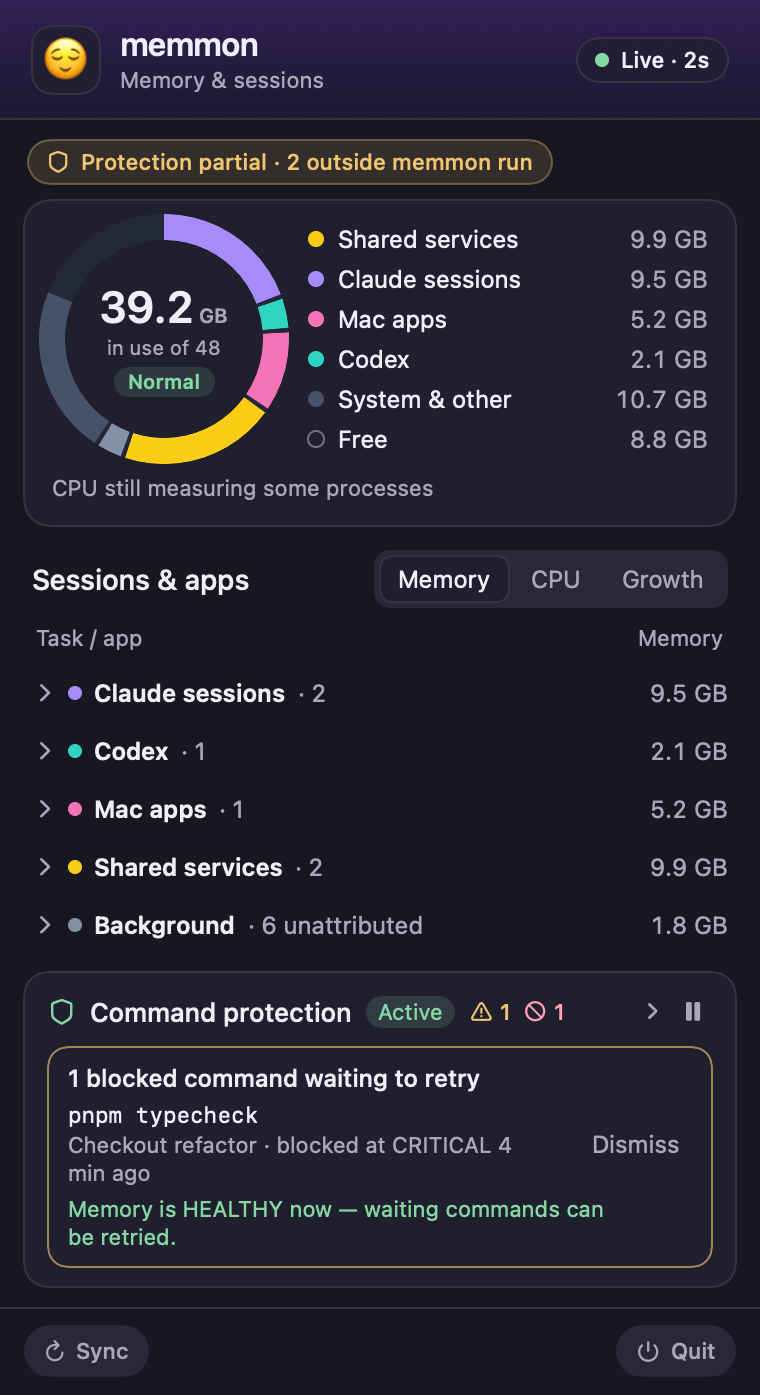
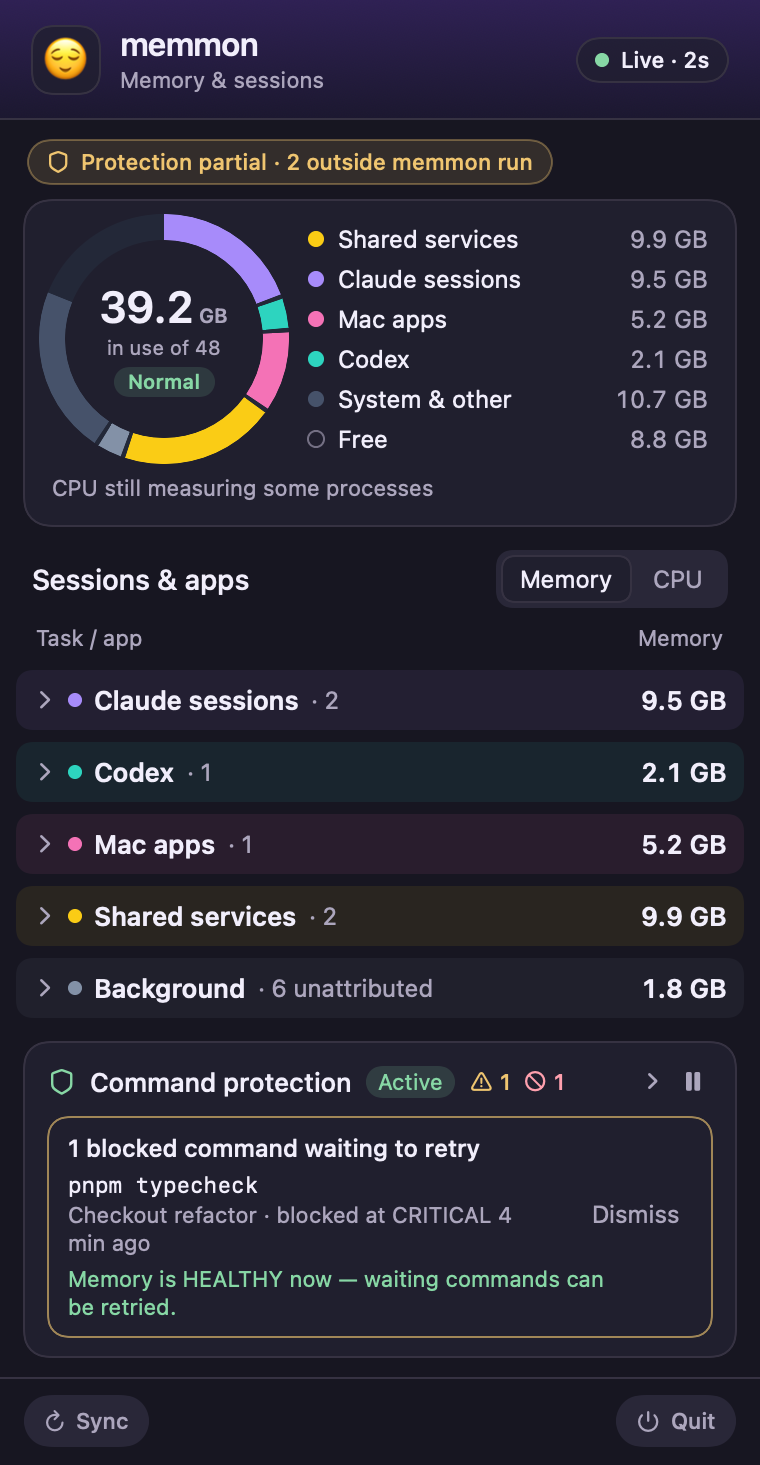
feat(menubar): section headers stand apart from their rows; drop the Growth sort
Each section header is a tinted band that carries the section's total,
and its rows sit indented behind a rule in the section's colour, set
smaller and lighter than the header. Growth is no longer a sort: it
needs ten minutes of unbroken history, so the column was mostly empty.
It still shows where it is known, in an owner's detail and under
pressure. A saved growth sort falls back to memory.

diff --git a/MemmonBar.swift b/MemmonBar.swift
@@ -570,20 +570,20 @@ struct OwnersSnap {
 }
 
 enum SortKey: String, CaseIterable {
-    case memory, cpu, growth
+    // Growth is not a sort: it needs ten minutes of unbroken history, so the
+    // column was mostly empty. It is shown where it is known instead.
+    case memory, cpu
     var label: String { rawValue == "cpu" ? "CPU" : rawValue.capitalized }
     var columnHeader: String {
         switch self {
         case .memory: return "Memory"
         case .cpu: return "CPU cores"
-        case .growth: return "Growth per 10 min"
         }
     }
     func metric(_ o: Owner) -> Double? {
         switch self {
         case .memory: return o.footprint
         case .cpu: return o.cpu
-        case .growth: return o.growth
         }
     }
 }
@@ -2065,14 +2065,12 @@ struct UsageColumn: View {
     private var memText: String { owner.footprint.map(gb) ?? "— \(memReason)" }
     private var memReason: String { owner.footprintReason ?? "not measured" }
     private var cpuReason: String { owner.cpuReason ?? "warming up" }
-    private var growthReason: String { owner.growthReason ?? "not enough history" }
-
     /// Nothing about the owner could be measured: one state, not two reasons.
     private var unmeasured: Bool { owner.footprint == nil && owner.cpu == nil }
 
     var lines: (String, String, String?) {
         // Same slots as any other row: the missing figures, then one reason.
-        if unmeasured && sort != .growth {
+        if unmeasured {
             return ("—", sort == .cpu ? "— GB" : "— cores", "memory and CPU \(memReason)")
         }
         switch sort {
@@ -2083,9 +2081,6 @@ struct UsageColumn: View {
         case .cpu:
             if let c = owner.cpu { return (coresText(c), memText, nil) }
             return ("—", memText, "CPU \(cpuReason)")
-        case .growth:
-            if let g = owner.growth { return (growthText(g), memText, nil) }
-            return ("—", memText, growthReason)
         }
     }
 
@@ -2093,13 +2088,10 @@ struct UsageColumn: View {
         let mem = owner.footprint.map { $0 < 0.05 * GB ? "less than 0.1 GB" : gb($0) }
             ?? "memory not available, \(memReason)"
         let cpu = owner.cpu.map(coresText) ?? "CPU not available, \(cpuReason)"
-        let growth = owner.growth.map { "growth \(growthText($0)) per 10 minutes" }
-            ?? "growth not available, \(growthReason)"
-        if unmeasured && sort != .growth { return "memory and CPU not available, \(memReason)" }
+        if unmeasured { return "memory and CPU not available, \(memReason)" }
         switch sort {
         case .memory: return "\(mem), \(cpu)"
         case .cpu: return "\(cpu), \(mem)"
-        case .growth: return "\(growth), \(mem)"
         }
     }
 
@@ -2140,27 +2132,27 @@ struct OwnerRow: View {
         let metric = tiny ? "< 0.1 GB" : usage.lines.0
         Button(action: onTap) {
             HStack(spacing: 8) {
-                OwnerIcon(owner: owner, selected: expanded, size: 22)
+                OwnerIcon(owner: owner, selected: expanded, size: 18)
                 // The status truncates, but only while some of it still fits:
                 // a lone "…" says nothing, so then the title shows alone.
                 ViewThatFits(in: .horizontal) {
                     HStack(spacing: 8) {
-                        Text(owner.title).font(ft(13, .medium)).foregroundColor(P.text)
+                        Text(owner.title).font(ft(12)).foregroundColor(P.text)
                             .lineLimit(1).fixedSize()
-                        Text(status).font(ft(12)).foregroundColor(P.muted)
+                        Text(status).font(ft(11)).foregroundColor(P.muted)
                             .lineLimit(1).truncationMode(.tail)
                             .frame(minWidth: 60, idealWidth: 60, maxWidth: .infinity, alignment: .leading)
                     }
-                    Text(owner.title).font(ft(13, .medium)).foregroundColor(P.text)
+                    Text(owner.title).font(ft(12)).foregroundColor(P.text)
                         .lineLimit(1).truncationMode(.tail)
                         .frame(maxWidth: .infinity, alignment: .leading)
                 }
                 Spacer(minLength: 6)
-                Text(metric).font(ft(13, .medium)).monospacedDigit()
+                Text(metric).font(ft(12)).monospacedDigit()
                     .foregroundColor(metric == "—" ? P.muted : P.text)
                     .lineLimit(1).fixedSize()
             }
-            .padding(.horizontal, 8).padding(.vertical, 6)
+            .padding(.horizontal, 8).padding(.vertical, 5)
             .background(RoundedRectangle(cornerRadius: 8).fill(expanded ? P.selected : Color.clear))
             .contentShape(Rectangle())
         }
@@ -2188,10 +2180,6 @@ func sectionMetric(_ rows: [Owner], _ sort: SortKey) -> String? {
         let known = rows.compactMap { $0.cpu }
         guard !known.isEmpty else { return nil }
         return (known.count < rows.count ? "≥ " : "") + coresText(known.reduce(0, +))
-    case .growth:
-        let known = rows.compactMap { $0.growth }
-        guard !known.isEmpty, known.count == rows.count else { return nil }
-        return growthText(known.reduce(0, +)) + " / 10 min"
     }
 }
 
@@ -2212,15 +2200,18 @@ struct SectionHeader: View {
                     .rotationEffect(.degrees(open ? 90 : 0))
                     .frame(width: 12)
                 Circle().fill(P.section(section)).frame(width: 7, height: 7)
-                Text(section.title).font(ft(12, .semibold)).foregroundColor(P.text).lineLimit(1)
+                Text(section.title).font(ft(13, .semibold)).foregroundColor(P.text).lineLimit(1)
                 Text("· " + count.shown).font(ft(12)).foregroundColor(P.muted)
                     .lineLimit(1).truncationMode(.tail)
                 Spacer(minLength: 6)
                 if let total {
-                    Text(total).font(ft(12)).foregroundColor(P.muted).monospacedDigit().fixedSize()
+                    Text(total).font(ft(13, .semibold)).foregroundColor(P.text).monospacedDigit().fixedSize()
                 }
             }
-            .padding(.horizontal, 8).padding(.top, 10).padding(.bottom, 4)
+            .padding(.horizontal, 8).padding(.vertical, 7)
+            // A tinted band, so a header never reads as one more row.
+            .background(RoundedRectangle(cornerRadius: 8).fill(P.section(section).opacity(open ? 0.14 : 0.08)))
+            .padding(.top, 6)
             .contentShape(Rectangle())
         }
         .buttonStyle(.plain)
@@ -3673,7 +3664,11 @@ struct ContentView: View {
                 .id("section-" + sec.rawValue)
                 if open {
                     let (shown, hidden) = model.visible(sec, rows)
-                    ownerRows(shown, s)
+                    VStack(alignment: .leading, spacing: 0) { ownerRows(shown, s) }
+                        .padding(.leading, 20).padding(.top, 3)
+                        .overlay(Rectangle().fill(P.section(sec).opacity(0.5)).frame(width: 2)
+                                    .padding(.leading, 13).padding(.vertical, 6),
+                                 alignment: .leading)
                     if hidden > 0 {
                         Button { withAnimation(motion(0.16)) { _ = model.showAll.insert(sec) } } label: {
                             Text("Show \(hidden) more").font(ft(12)).foregroundColor(P.accent)

diff --git a/test_ui.py b/test_ui.py
@@ -511,8 +511,10 @@ class AccessibilityTests(unittest.TestCase):
         self.assertEqual(owner["value"], "collapsed")
         self.assertIn("ownership confidence: inferred",
                       next(l for l in found if l.startswith("Billing API tests,")))
-        for sort in ("Sort by Memory", "Sort by CPU", "Sort by Growth"):
+        for sort in ("Sort by Memory", "Sort by CPU"):
             self.assertIn(sort, found)
+        # Growth needs ten unbroken minutes of history; it is not a sort.
+        self.assertNotIn("Sort by Growth", found)
         self.assertIn("Pause command protection", found)
 
     def test_unavailable_values_are_spoken_as_unavailable_never_zero(self):
@@ -777,9 +779,11 @@ class AccessibilityTests(unittest.TestCase):
         pointer = next(l for l in shared if l.startswith(title + ","))
         self.assertIn("Codex thread · 1 process", pointer)
         self.assertIn("ownership confidence: shared", pointer)
+        # A saved "growth" sort from an older build falls back to memory.
         growth = labels(a11y("growth-sort.json", *AGENTS))
         unattributed = next(l for l in growth if l.startswith("Unattributed,"))
-        self.assertIn("growth not available, not enough history, 1.8 GB", unattributed)
+        self.assertTrue(unattributed.endswith("1.8 GB, CPU not available, not measured"), unattributed)
+        self.assertFalse(any("growth not available" in l for l in growth))
 
     def test_degraded_inventory_offers_no_stop_buttons(self):
         found = labels(a11y("degraded.json"))
